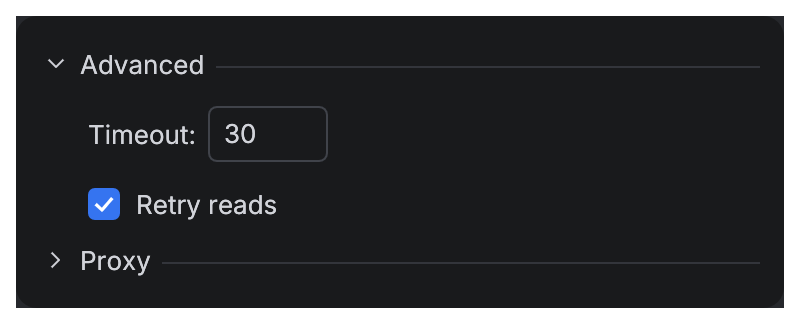
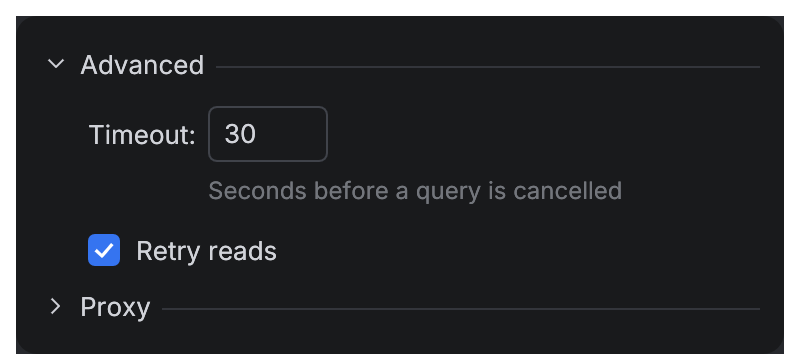
feat(form): comments under labelled rows
FormUi::comment puts an explanation under the row above, in the comment gray, starting under
its fields and 3 pt below them, as under Android Studio's settings fields.

Claude-Session: https://claude.ai/code/session_01CFSJRhkJs2RrB2frFQVn3u

diff --git a/crates/archipel-kit/src/components/form.rs b/crates/archipel-kit/src/components/form.rs
@@ -132,6 +132,44 @@ impl FormUi<'_> {
         inner
     }
 
+    /// An explanation under the labelled [row](Self::row) above, in the smaller gray comment
+    /// text, starting where the row's fields start and wrapping at the form's width; as the
+    /// comments under Android Studio's settings fields. Checkboxes and radios carry their own
+    /// ([`Checkbox::comment`](super::Checkbox::comment)).
+    pub fn comment(&mut self, text: &str) {
+        let indent = self.labels.width + size::FORM_LABEL_GAP;
+        let wrap = (self.ui.available_width() - indent).max(size::ICON);
+        let mut job = egui::text::LayoutJob::default();
+        job.append(
+            text,
+            0.0,
+            egui::TextFormat {
+                font_id: typography::body(typography::COMMENT),
+                line_height: Some(size::COMMENT_LINE_HEIGHT),
+                color: egui::Color32::PLACEHOLDER,
+                ..Default::default()
+            },
+        );
+        job.wrap.max_width = wrap;
+        let galley = self.ui.painter().layout_job(job);
+        let lines = galley.rows.len().max(1) as f32;
+        let colors = Theme::colors(self.ui.ctx());
+        // Close under the field, as a checkbox comment is under its label: undo the row's
+        // inset and the gap between rows.
+        self.ui
+            .add_space(size::COMMENT_GAP - size::FORM_FIELD_INSET - size::FORM_ROW_GAP);
+        self.ui.horizontal(|ui| {
+            ui.spacing_mut().item_spacing.x = 0.0;
+            ui.add_space(indent);
+            let (rect, response) = ui.allocate_exact_size(
+                vec2(galley.size().x, lines * size::COMMENT_LINE_HEIGHT),
+                Sense::hover(),
+            );
+            response.widget_info(|| WidgetInfo::labeled(WidgetType::Label, true, text));
+            common::text(ui.painter(), rect.min, galley, colors.text_placeholder);
+        });
+    }
+
     /// A row with a label followed by radio buttons (`Open project in (•) New window
     /// ( ) Current window`), [`FORM_CONTROL_GAP`](size::FORM_CONTROL_GAP) apart.
     pub fn radios<R>(&mut self, label: &str, add: impl FnOnce(&mut Ui) -> R) -> R {

diff --git a/crates/archipel-kit/tests/form.rs b/crates/archipel-kit/tests/form.rs
@@ -127,6 +127,7 @@ fn advanced(ui: &mut egui::Ui, open: &mut bool) {
             form.row("Timeout:", |ui| {
                 ui.add(TextField::new(&mut timeout).name("Timeout").width(60.0))
             });
+            form.comment("Seconds before a query is cancelled");
             form.add(Checkbox::new(&mut retry, "Retry reads"));
         });
     });
@@ -191,4 +192,20 @@ fn labelled_rows_start_their_fields_in_one_column() {
     harness.run();
     let again = harness.get_by_label("Name").rect();
     assert_eq!(name, again, "stable after the first frame");
+}
+
+#[test]
+fn a_comment_starts_under_the_fields_of_its_row() {
+    let harness = testing::harness_state(Theme::dark(), true, advanced);
+    let field = harness.get_by_label("Timeout").rect();
+    let comment = harness
+        .get_by_label("Seconds before a query is cancelled")
+        .rect();
+    assert!(comment.top() >= field.bottom(), "below the field");
+    // The field's text sits a padding inside its box; the comment starts at the box.
+    let padding = tokens::size::CODE_PADDING;
+    assert!(
+        (comment.left() + padding - field.left()).abs() <= padding,
+        "under the field column: {comment:?} {field:?}"
+    );
 }

diff --git a/docs/components/form.md b/docs/components/form.md
@@ -55,6 +55,7 @@ fn appearance(ui: &mut egui::Ui, readers: &mut bool, custom: &mut bool, zoom: &m
 | `form.radios(label, \|ui\| …)` | A label and radio buttons in one row, 16 pt apart. |
 | `form.group(title, \|form\| …)` | A titled group, rows indented. The first group of a page has no space above. |
 | `form.collapsible(title, &mut open, \|form\| …)` | A group the user shows and hides ("Advanced"): a chevron before the title; the rows only while `open`. |
+| `form.comment(text)` | An explanation under the labelled row above, in the 12 pt comment gray, starting under its fields, 3 pt below them. |
 | `form.indent(\|form\| …)` | Rows that depend on the row above. |
 | `form.space()` | Extra space between loosely related rows. |
 | `form.ui()` | The `Ui`, for content that is not a row. |
